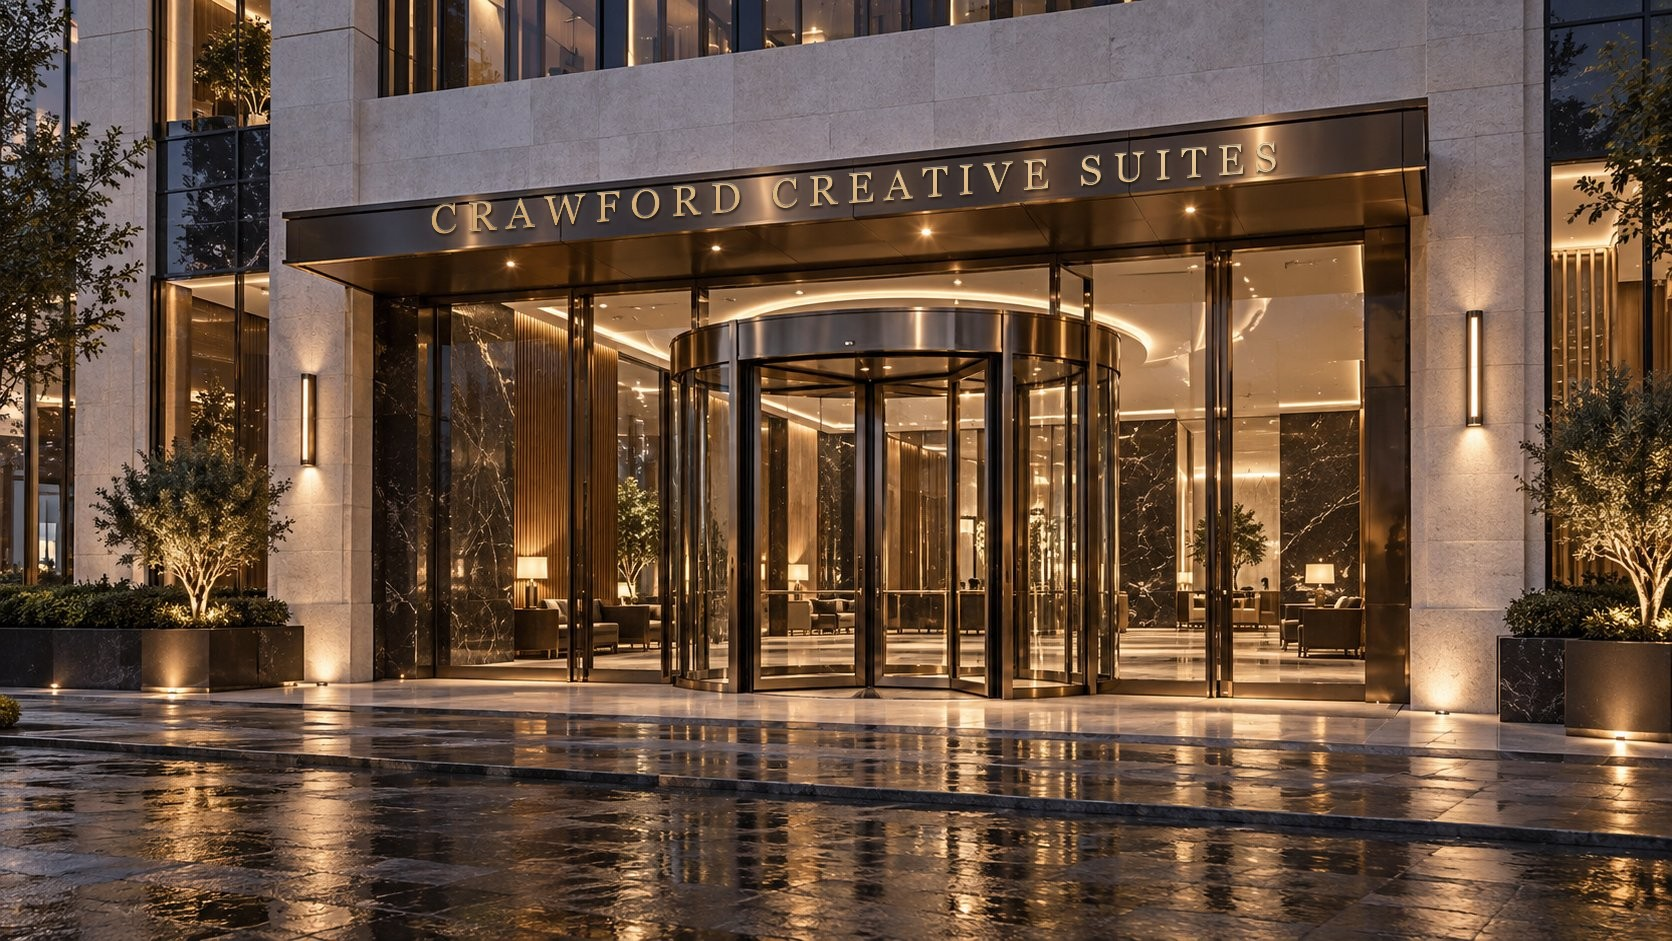
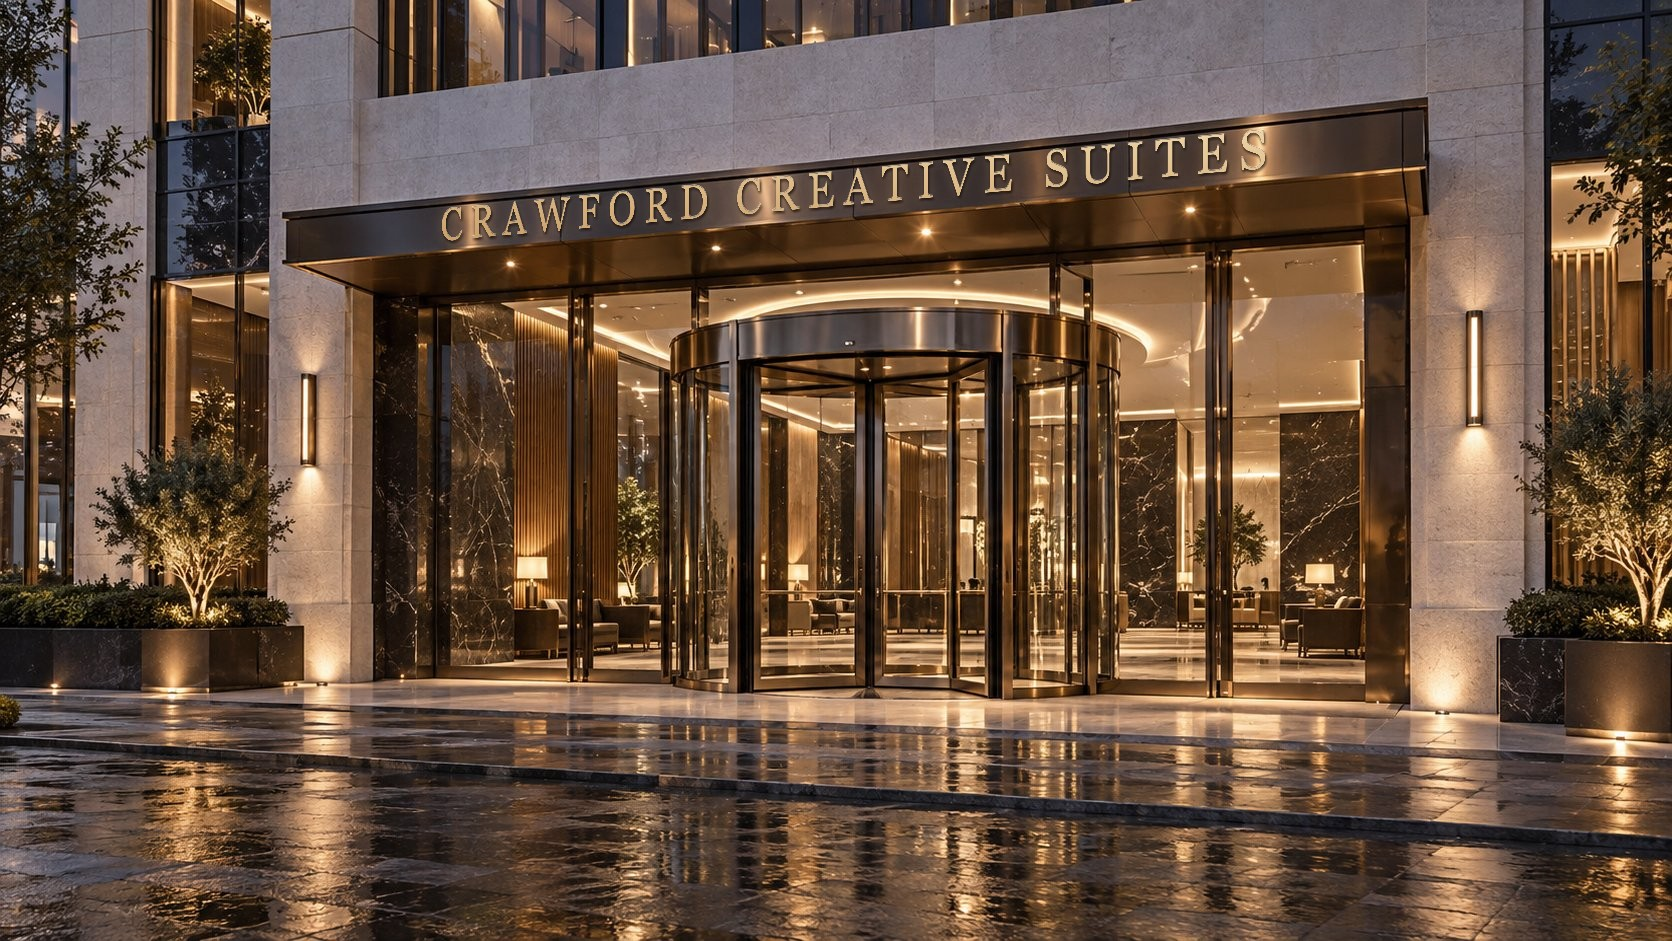
Canopy sign options 1 and 3 fitted to the canopy's measured perspective so the lettering sits evenly; fit to the visible canopy on phones

Changed region(s): [[0.2488, 0.1233, 0.7775, 0.2774]]

diff --git a/index.html b/index.html
@@ -143,9 +143,13 @@ body{-webkit-font-smoothing:antialiased;-moz-osx-font-smoothing:grayscale}
     function walkIn(done){const r=hero.getBoundingClientRect(),cs=getComputedStyle(hero),px=parseFloat(cs.backgroundPositionX)/100||.5,py=parseFloat(cs.backgroundPositionY)/100||.5;const k=Math.max(r.width/DOOR.w,r.height/DOOR.h),ox=(r.width-DOOR.w*k)*px,oy=(r.height-DOOR.h*k)*py;const w=document.createElement('div');w.className='walk';w.setAttribute('aria-hidden','true');w.innerHTML='<div class="walk-view"></div><div class="glass"></div><div class="warm"></div>';const v=w.firstChild;v.style.backgroundPosition=cs.backgroundPosition;v.style.transformOrigin=(ox+DOOR.cx*k)+'px '+(oy+DOOR.cy*k)+'px';hero.classList.add('walking');hero.appendChild(w);setTimeout(()=>{done();setTimeout(()=>{w.remove();hero.classList.remove('walking')},900)},2750)}
     function revealLobby(animated){if(animated&&!reduced){walkIn(()=>{lobby.classList.add('visible','walked');placeSuites();lobby.scrollIntoView({behavior:'auto'})})}else{lobby.classList.add('visible');placeSuites();lobby.scrollIntoView({behavior:reduced?'auto':'smooth'})}}
     const SIGN=new URLSearchParams(location.search).get('sign')||'';if(SIGN)hero.classList.add('sign-'+SIGN);
+    // Canopy face edges in the photo (measured): top and bottom lines, in photo pixels.
+    const FACE={top:x=>203-0.1*(x-380),bot:x=>259-0.085*(x-380),x0:440,x1:1268};
+    function homography(w,h,q){const s=[[0,0],[w,0],[w,h],[0,h]],A=[],B=[];for(let i=0;i<4;i++){const[x,y]=s[i],[X,Y]=q[i];A.push([x,y,1,0,0,0,-X*x,-X*y]);B.push(X);A.push([0,0,0,x,y,1,-Y*x,-Y*y]);B.push(Y)}for(let c=0;c<8;c++){let p=c;for(let r=c+1;r<8;r++)if(Math.abs(A[r][c])>Math.abs(A[p][c]))p=r;[A[c],A[p]]=[A[p],A[c]];[B[c],B[p]]=[B[p],B[c]];for(let r=0;r<8;r++){if(r===c)continue;const f=A[r][c]/A[c][c];for(let k=c;k<8;k++)A[r][k]-=f*A[c][k];B[r]-=f*B[c]}}const m=B.map((b,i)=>b/A[i][i]);return 'matrix3d('+[m[0],m[3],0,m[6],m[1],m[4],0,m[7],0,0,1,0,m[2],m[5],0,1].join(',')+')'}
+    function fitToCanopy(sign,ox,oy,k,a0,a1){sign.style.fontSize='40px';sign.style.left='0px';sign.style.top='0px';sign.style.transformOrigin='0 0';const w=sign.offsetWidth,h=sign.offsetHeight,band=(x,f)=>{const t=FACE.top(x),b=FACE.bot(x),hh=b-t;return[t+f*hh,b-f*hh]};const P=(x,y)=>[ox+x*k,oy+y*k];const f=0.16;const q=[P(a0,band(a0,f)[0]),P(a1,band(a1,f)[0]),P(a1,band(a1,f)[1]),P(a0,band(a0,f)[1])];sign.style.transform=homography(w,h,q)}
     // Building name on the canopy over the revolving door (img/crawford-exterior.jpg, 1672 x 941).
     const CANOPY={w:1672,h:941,cx:854,cy:190,font:19};
-    function placeMarquee(){const sign=hero.querySelector('.architectural-sign');if(!sign)return;const r=hero.getBoundingClientRect(),cs=getComputedStyle(hero),px=parseFloat(cs.backgroundPositionX)/100||.5,py=parseFloat(cs.backgroundPositionY)/100||.5,k=Math.max(r.width/CANOPY.w,r.height/CANOPY.h),ox=(r.width-CANOPY.w*k)*px,oy=(r.height-CANOPY.h*k)*py;sign.classList.add('on-canopy');sign.style.fontSize=((SIGN==='parallel'?29:SIGN==='plaque'?22:CANOPY.font)*k)+'px';let w=sign.offsetWidth;const room=r.width-24;if(w>room){sign.style.fontSize=(CANOPY.font*k*room/w)+'px';w=sign.offsetWidth}const h=sign.offsetHeight;sign.style.left=Math.min(Math.max(12,ox+CANOPY.cx*k-w/2),r.width-12-w)+'px';sign.style.top=(oy+CANOPY.cy*k-h/2)+'px';sign.style.transform=SIGN==='parallel'?'skewY(-4.3deg)':'none'}
+    function placeMarquee(){const sign=hero.querySelector('.architectural-sign');if(!sign)return;const r=hero.getBoundingClientRect(),cs=getComputedStyle(hero),px=parseFloat(cs.backgroundPositionX)/100||.5,py=parseFloat(cs.backgroundPositionY)/100||.5,k=Math.max(r.width/CANOPY.w,r.height/CANOPY.h),ox=(r.width-CANOPY.w*k)*px,oy=(r.height-CANOPY.h*k)*py;sign.classList.add('on-canopy');const v0=(14-ox)/k,v1=(r.width-14-ox)/k,a0=Math.max(FACE.x0,v0),a1=Math.min(FACE.x1,v1),cropped=a0>FACE.x0||a1<FACE.x1;if(SIGN==='photo'){hero.classList.toggle('sign-photo',!cropped);if(!cropped)return}if(SIGN==='parallel'||SIGN==='photo'){fitToCanopy(sign,ox,oy,k,a0,a1);return}sign.style.fontSize=((SIGN==='parallel'?29:SIGN==='plaque'?22:CANOPY.font)*k)+'px';let w=sign.offsetWidth;const room=r.width-24;if(w>room){sign.style.fontSize=(CANOPY.font*k*room/w)+'px';w=sign.offsetWidth}const h=sign.offsetHeight;sign.style.left=Math.min(Math.max(12,ox+CANOPY.cx*k-w/2),r.width-12-w)+'px';sign.style.top=(oy+CANOPY.cy*k-h/2)+'px';sign.style.transform='none'}
     window.addEventListener('resize',placeMarquee);window.addEventListener('load',placeMarquee);if(document.fonts)document.fonts.ready.then(placeMarquee);
     // Lobby TV: where the LED TV sits in img/crawford-lobby.jpg (photo pixels). Set from the image.
     const TV={w:1672,h:941,left:595,top:89,right:1077,bottom:267};

diff --git a/src/ccs-preview.html b/src/ccs-preview.html
@@ -127,9 +127,13 @@
     function walkIn(done){const r=hero.getBoundingClientRect(),cs=getComputedStyle(hero),px=parseFloat(cs.backgroundPositionX)/100||.5,py=parseFloat(cs.backgroundPositionY)/100||.5;const k=Math.max(r.width/DOOR.w,r.height/DOOR.h),ox=(r.width-DOOR.w*k)*px,oy=(r.height-DOOR.h*k)*py;const w=document.createElement('div');w.className='walk';w.setAttribute('aria-hidden','true');w.innerHTML='<div class="walk-view"></div><div class="glass"></div><div class="warm"></div>';const v=w.firstChild;v.style.backgroundPosition=cs.backgroundPosition;v.style.transformOrigin=(ox+DOOR.cx*k)+'px '+(oy+DOOR.cy*k)+'px';hero.classList.add('walking');hero.appendChild(w);setTimeout(()=>{done();setTimeout(()=>{w.remove();hero.classList.remove('walking')},900)},2750)}
     function revealLobby(animated){if(animated&&!reduced){walkIn(()=>{lobby.classList.add('visible','walked');placeSuites();lobby.scrollIntoView({behavior:'auto'})})}else{lobby.classList.add('visible');placeSuites();lobby.scrollIntoView({behavior:reduced?'auto':'smooth'})}}
     const SIGN=new URLSearchParams(location.search).get('sign')||'';if(SIGN)hero.classList.add('sign-'+SIGN);
+    // Canopy face edges in the photo (measured): top and bottom lines, in photo pixels.
+    const FACE={top:x=>203-0.1*(x-380),bot:x=>259-0.085*(x-380),x0:440,x1:1268};
+    function homography(w,h,q){const s=[[0,0],[w,0],[w,h],[0,h]],A=[],B=[];for(let i=0;i<4;i++){const[x,y]=s[i],[X,Y]=q[i];A.push([x,y,1,0,0,0,-X*x,-X*y]);B.push(X);A.push([0,0,0,x,y,1,-Y*x,-Y*y]);B.push(Y)}for(let c=0;c<8;c++){let p=c;for(let r=c+1;r<8;r++)if(Math.abs(A[r][c])>Math.abs(A[p][c]))p=r;[A[c],A[p]]=[A[p],A[c]];[B[c],B[p]]=[B[p],B[c]];for(let r=0;r<8;r++){if(r===c)continue;const f=A[r][c]/A[c][c];for(let k=c;k<8;k++)A[r][k]-=f*A[c][k];B[r]-=f*B[c]}}const m=B.map((b,i)=>b/A[i][i]);return 'matrix3d('+[m[0],m[3],0,m[6],m[1],m[4],0,m[7],0,0,1,0,m[2],m[5],0,1].join(',')+')'}
+    function fitToCanopy(sign,ox,oy,k,a0,a1){sign.style.fontSize='40px';sign.style.left='0px';sign.style.top='0px';sign.style.transformOrigin='0 0';const w=sign.offsetWidth,h=sign.offsetHeight,band=(x,f)=>{const t=FACE.top(x),b=FACE.bot(x),hh=b-t;return[t+f*hh,b-f*hh]};const P=(x,y)=>[ox+x*k,oy+y*k];const f=0.16;const q=[P(a0,band(a0,f)[0]),P(a1,band(a1,f)[0]),P(a1,band(a1,f)[1]),P(a0,band(a0,f)[1])];sign.style.transform=homography(w,h,q)}
     // Building name on the canopy over the revolving door (img/crawford-exterior.jpg, 1672 x 941).
     const CANOPY={w:1672,h:941,cx:854,cy:190,font:19};
-    function placeMarquee(){const sign=hero.querySelector('.architectural-sign');if(!sign)return;const r=hero.getBoundingClientRect(),cs=getComputedStyle(hero),px=parseFloat(cs.backgroundPositionX)/100||.5,py=parseFloat(cs.backgroundPositionY)/100||.5,k=Math.max(r.width/CANOPY.w,r.height/CANOPY.h),ox=(r.width-CANOPY.w*k)*px,oy=(r.height-CANOPY.h*k)*py;sign.classList.add('on-canopy');sign.style.fontSize=((SIGN==='parallel'?29:SIGN==='plaque'?22:CANOPY.font)*k)+'px';let w=sign.offsetWidth;const room=r.width-24;if(w>room){sign.style.fontSize=(CANOPY.font*k*room/w)+'px';w=sign.offsetWidth}const h=sign.offsetHeight;sign.style.left=Math.min(Math.max(12,ox+CANOPY.cx*k-w/2),r.width-12-w)+'px';sign.style.top=(oy+CANOPY.cy*k-h/2)+'px';sign.style.transform=SIGN==='parallel'?'skewY(-4.3deg)':'none'}
+    function placeMarquee(){const sign=hero.querySelector('.architectural-sign');if(!sign)return;const r=hero.getBoundingClientRect(),cs=getComputedStyle(hero),px=parseFloat(cs.backgroundPositionX)/100||.5,py=parseFloat(cs.backgroundPositionY)/100||.5,k=Math.max(r.width/CANOPY.w,r.height/CANOPY.h),ox=(r.width-CANOPY.w*k)*px,oy=(r.height-CANOPY.h*k)*py;sign.classList.add('on-canopy');const v0=(14-ox)/k,v1=(r.width-14-ox)/k,a0=Math.max(FACE.x0,v0),a1=Math.min(FACE.x1,v1),cropped=a0>FACE.x0||a1<FACE.x1;if(SIGN==='photo'){hero.classList.toggle('sign-photo',!cropped);if(!cropped)return}if(SIGN==='parallel'||SIGN==='photo'){fitToCanopy(sign,ox,oy,k,a0,a1);return}sign.style.fontSize=((SIGN==='parallel'?29:SIGN==='plaque'?22:CANOPY.font)*k)+'px';let w=sign.offsetWidth;const room=r.width-24;if(w>room){sign.style.fontSize=(CANOPY.font*k*room/w)+'px';w=sign.offsetWidth}const h=sign.offsetHeight;sign.style.left=Math.min(Math.max(12,ox+CANOPY.cx*k-w/2),r.width-12-w)+'px';sign.style.top=(oy+CANOPY.cy*k-h/2)+'px';sign.style.transform='none'}
     window.addEventListener('resize',placeMarquee);window.addEventListener('load',placeMarquee);if(document.fonts)document.fonts.ready.then(placeMarquee);
     // Lobby TV: where the LED TV sits in img/crawford-lobby.jpg (photo pixels). Set from the image.
     const TV={w:1672,h:941,left:595,top:89,right:1077,bottom:267};
